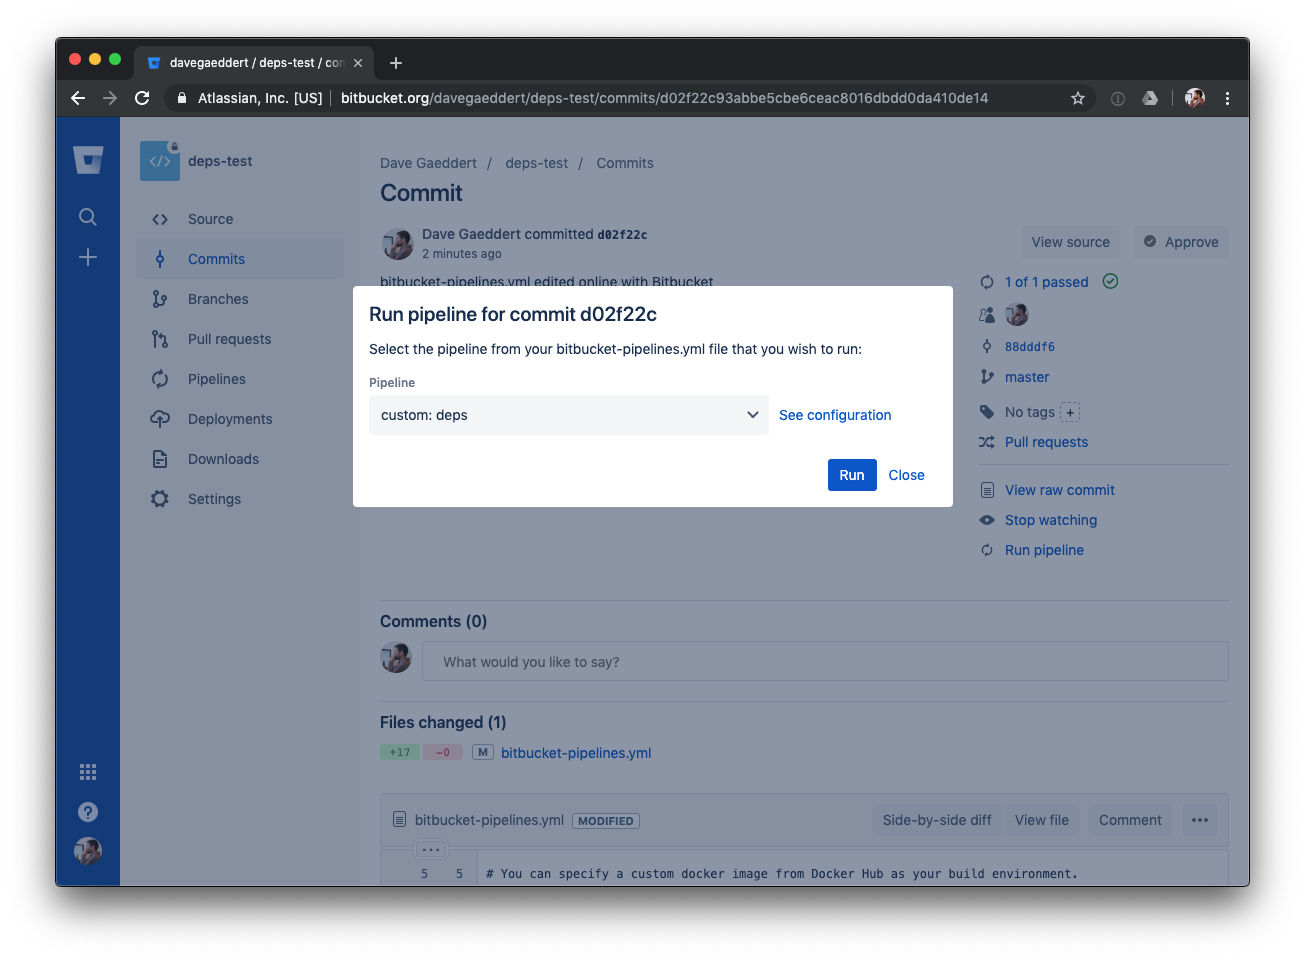
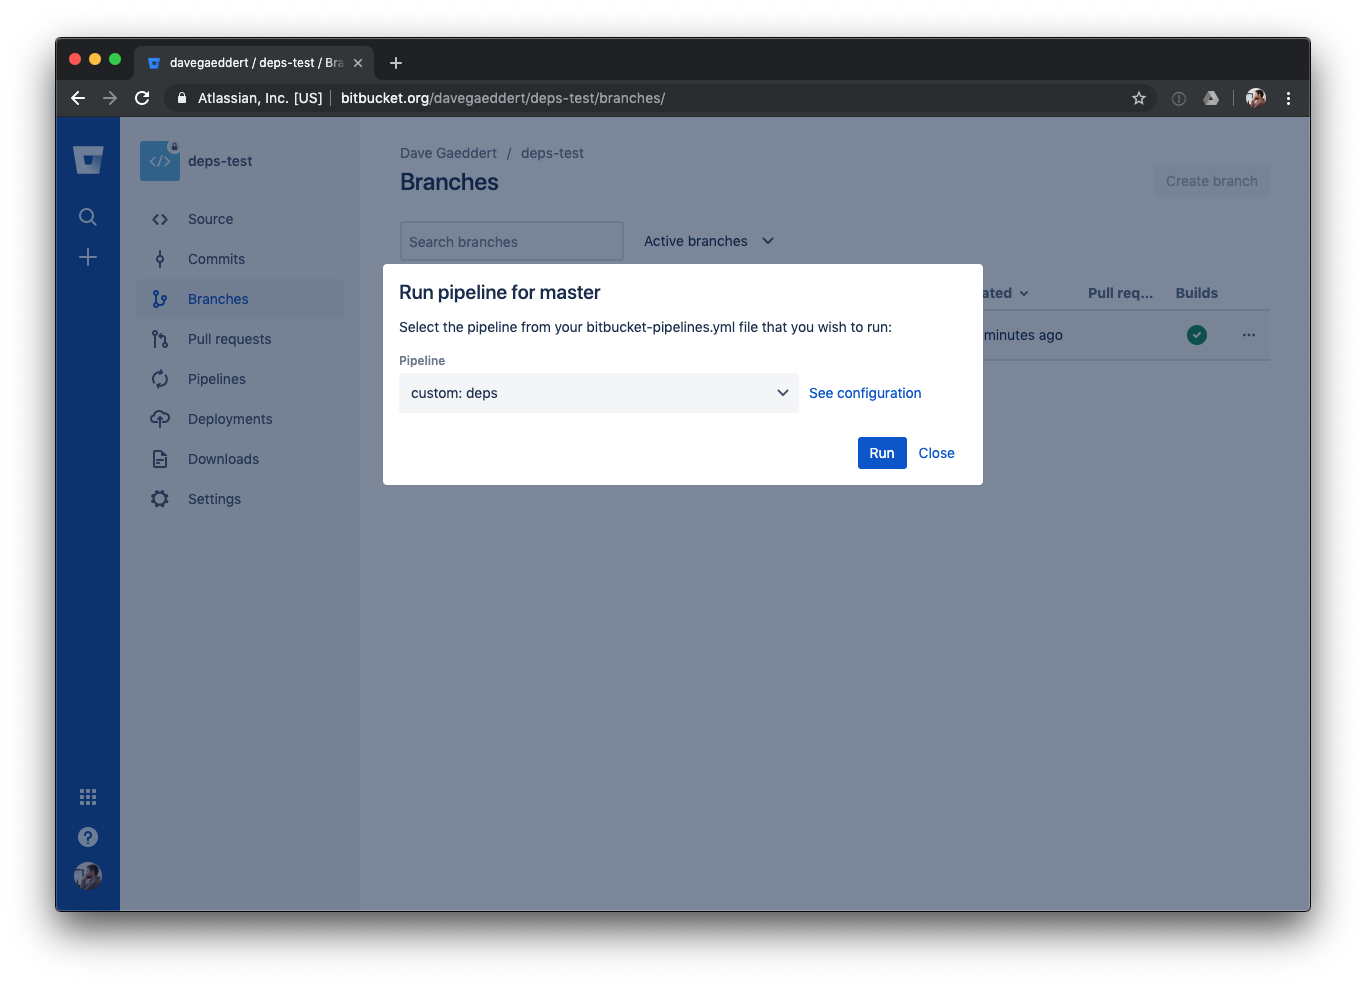
Change bitbucket pipeline docs to run from branches

diff --git a/docs/content/bitbucket-pipelines.md b/docs/content/bitbucket-pipelines.md
@@ -51,6 +51,6 @@ Create a daily or weekly schedule to run your new deps pipeline.
 ## 4. Test the pipeline manually
 
 If you want to test your new pipeline without waiting for the schedule,
-just navigate to the commit view and click "run pipeline".
+just navigate to the branches view and click "run pipeline".
 
 [![Bitbucket pipeline manual run for deps](/assets/img/screenshots/bitbucket-pipeline-manual.png)](/assets/img/screenshots/bitbucket-pipeline-manual.png)
